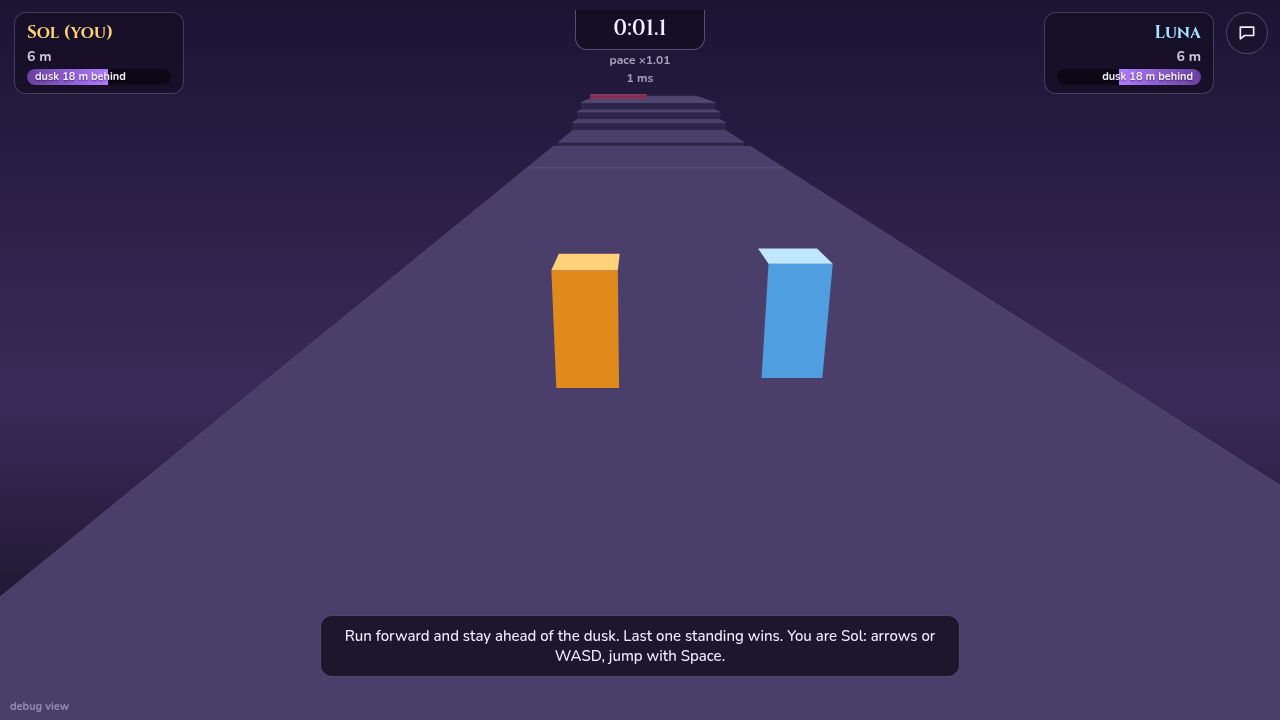
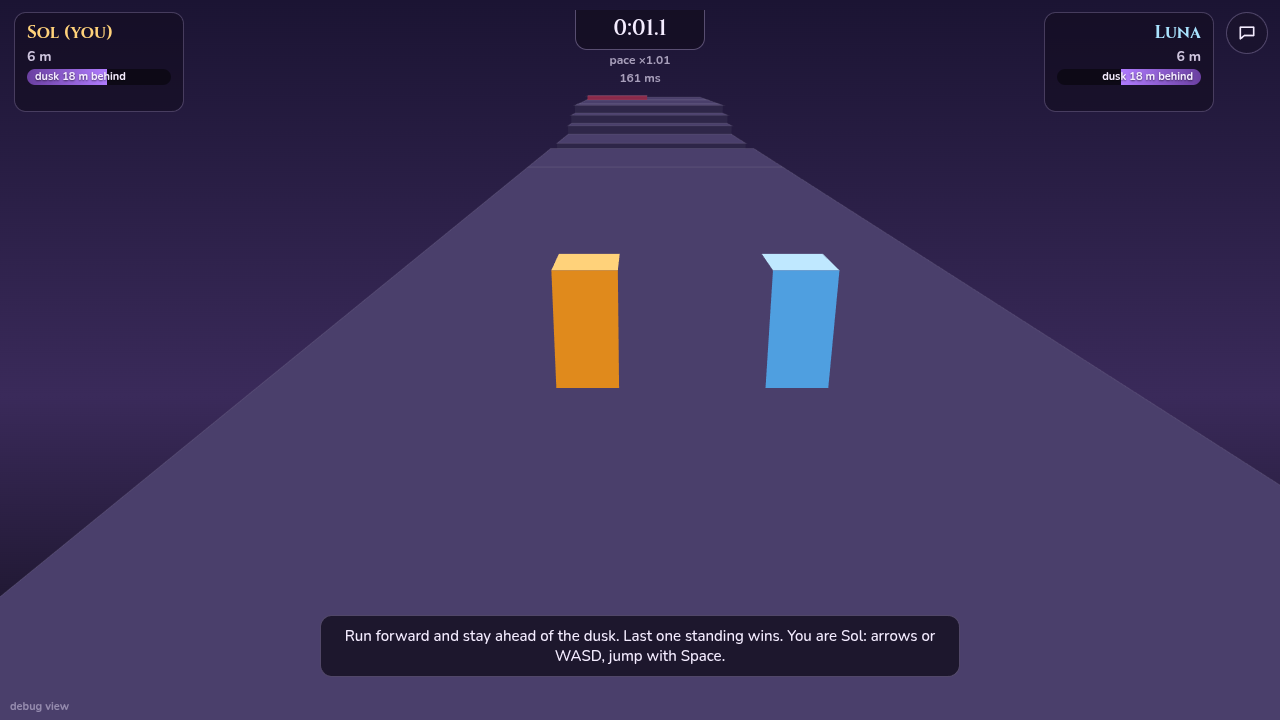
Runner 3D online: the other player's correction eases out (no pops at 80 ms lag); browser test checks tips and remote motion on the real renderer; fresh screenshots

Changed region(s): [[0.5938, 0.3361, 0.6562, 0.55], [0.4375, 0.0917, 0.5625, 0.2139]]

diff --git a/public/js/runner3d-app.js b/public/js/runner3d-app.js
@@ -18,7 +18,11 @@ const $ = (s) => document.querySelector(s);
 const NAME = ['Sol', 'Luna'];
 const RESULT_DELAY = 70;   // ticks of the final moment before the results card
 const TELEPORT = 2;        // units: don't interpolate across a jump this big
-const OFF_MAX = 3;         // units: drop a visual correction bigger than this
+const OFF_MAX = 3;         // units: drop a visual correction of your own player bigger than this
+// The other player's input reaches you a round trip late, so a jump or a stop of theirs can be
+// mispredicted by 3 to 4 units at 80 ms of lag. Their correction eases out at most this fast
+// (units per tick) instead of snapping, and is only dropped beyond OFF_MAX_REMOTE.
+const REMOTE_EASE = 0.3, OFF_MAX_REMOTE = 8;
 const URGENT = 8, CRITICAL = 4;   // units between a player and the dusk
 // read once at load: joining a room rewrites the URL to /CODE and drops the query
 const DEBUG_VIEW = new URLSearchParams(location.search).has('r3ddebug');
@@ -197,15 +201,17 @@ export class Runner3DMode {
     stepRunner3d(this.L, this.S, inp);
     this.listen();
     this.off.forEach((v, i) => {
-      for (const k of ['x', 'y', 'z']) {
-        let d = v[k] * 0.2;
+      const d = { x: v.x * 0.2, y: v.y * 0.2, z: v.z * 0.2 };
+      if (i === this.app.me) {
         // drawn ahead of the corrected state while running forward: pay the difference off
         // slower than the run itself, so a late correction slows you instead of pulling you back
         const vz = this.S.p[i].vz;
-        if (k === 'z' && d > 0 && vz > 0.02) d = Math.min(d, 0.6 * vz);
-        v[k] -= d;
-        if (Math.abs(v[k]) < 0.002) v[k] = 0;
+        if (d.z > 0 && vz > 0.02) d.z = Math.min(d.z, 0.6 * vz);
+      } else {
+        const m = Math.hypot(d.x, d.y, d.z);
+        if (m > REMOTE_EASE) { d.x *= REMOTE_EASE / m; d.y *= REMOTE_EASE / m; d.z *= REMOTE_EASE / m; }
       }
+      for (const k of ['x', 'y', 'z']) { v[k] -= d[k]; if (Math.abs(v[k]) < 0.002) v[k] = 0; }
     });
   }
 
@@ -222,7 +228,7 @@ export class Runner3DMode {
     before.p.forEach((v, i) => {
       const o = this.off[i], a = after.p[i];
       o.x += v.x - a.x; o.y += v.y - a.y; o.z += v.z - a.z;
-      if (Math.hypot(o.x, o.y, o.z) > OFF_MAX) { o.x = 0; o.y = 0; o.z = 0; }
+      if (Math.hypot(o.x, o.y, o.z) > (i === me ? OFF_MAX : OFF_MAX_REMOTE)) { o.x = 0; o.y = 0; o.z = 0; }
       this.prev.p[i].x += a.x - v.x; this.prev.p[i].y += a.y - v.y; this.prev.p[i].z += a.z - v.z;
     });
     const mb = before.p[me], ma = after.p[me], err = Math.hypot(mb.x - ma.x, mb.y - ma.y, mb.z - ma.z);
@@ -268,12 +274,12 @@ export class Runner3DMode {
       if (back > this.corr.viewBack && (this.input.any3d() & 8)) this.corr.viewBack = back;   // drawn backwards while holding forward
     }
     this.lastDrawn = v.p[this.app.me]?.z ?? null;
-    // the other player's drawn motion: the largest step between two frames, and the most it moved
+    // the other player's drawn motion: the largest step between two frames (per tick), and the most it moved
     // backwards in one frame while running forward (a pop or a pull-back would show up here)
     if (this.online && this.S.phase === R3_PLAY) {
       const o = 1 - this.app.me, q = v.p[o], rp = this.S.p[o];
       if (this.lastRemote && rp.alive) {
-        const d = Math.hypot(q.x - this.lastRemote.x, q.y - this.lastRemote.y, q.z - this.lastRemote.z);
+        const d = Math.hypot(q.x - this.lastRemote.x, q.y - this.lastRemote.y, q.z - this.lastRemote.z) / Math.max(1, n);   // per tick
         if (d > this.corr.remoteStep) this.corr.remoteStep = d;
         const back = this.lastRemote.z - q.z;
         if ((this.remoteBits & 8) && rp.vz > 0.05 && back > this.corr.remoteBack) this.corr.remoteBack = back;

diff --git a/tools/runner3d-browser.js b/tools/runner3d-browser.js
@@ -13,7 +13,8 @@
 // local sim inside the page and takes the online shots during the countdown.
 // Env: OUT (screenshots, default docs/img/runner3d), ONLY=local|online|webgl, RENDER=debug|webgl|both
 // (default both), GL_FLAGS (Chromium GL flags, default --enable-gpu), MAX_VIEW_BACK (units the drawn
-// local player may move backwards, default 0.05), MAX_REMOTE_STEP (units the drawn remote player may move in one frame, default 0.5).
+// local player may move backwards, default 0.05), MAX_REMOTE_STEP (units the drawn remote player may move in one frame, default 1: running and
+// jumping move it up to about 0.4 a tick, and a correction eases out at 0.3 more).
 import { spawn, execSync } from 'node:child_process';
 import { mkdtempSync, rmSync, writeFileSync, mkdirSync, existsSync } from 'node:fs';
 import { tmpdir } from 'node:os';
@@ -30,7 +31,7 @@ const RENDER = process.env.RENDER || 'both';
 const QS = RENDER === 'webgl' ? '' : '?r3ddebug=1';
 const FP = RENDER === 'both' ? 'debug-' : '';   // screenshot prefix of the play checks when the WebGL pass also runs
 const MAX_VIEW_BACK = +(process.env.MAX_VIEW_BACK || 0.05);
-const MAX_REMOTE_STEP = +(process.env.MAX_REMOTE_STEP || 0.5);
+const MAX_REMOTE_STEP = +(process.env.MAX_REMOTE_STEP || 1);
 mkdirSync(OUT, { recursive: true });
 const sleep = (ms) => new Promise(r => setTimeout(r, ms));
 
@@ -211,8 +212,6 @@ try {
     await A.shot(FP + 'local-over');
     await A.waitFor(`document.body.dataset.screen === 'r3Results'`, 5000);
     const res = await A.eval(`[...document.querySelectorAll('#r3Title, #r3Sol, #r3Luna')].map(e => e.textContent.trim()).join(' | ')`);
-    const tips = await A.eval('Object.keys(window.__runner3d.tipSeen[0])');
-    check('local: a first-time tip came up for the first obstacle kind', tips.length > 0, tips.join(', '));
     check('local: results card shows the winner, times and distances', /Sol wins/.test(res) && /\d+ m/.test(res) && /dusk/.test(res), res);
     await A.shot(FP + 'results');
     const seedBefore = s5.seed;
@@ -362,6 +361,8 @@ try {
       await A.shot('local-split');
       const sp = await A.eval(ST);
       check('webgl: local split screen plays in real time', sp.p.every(p => p.z > 10), JSON.stringify(sp.p.map(p => p.z)));
+      const tips = await A.eval(`[...document.querySelectorAll('.r3-tip')].map(e => getComputedStyle(e).opacity > 0.5 ? e.textContent : '')`);
+      check('webgl: each player sees a tip as the first obstacle comes up', tips.every(Boolean), JSON.stringify(tips));
       await A.eval(`(() => { window.__runner3d.prev = window.__runner3d.capture(window.__runner3d.S); })()`);
     } else {
       // Sol runs and hops, Luna runs a little slower
